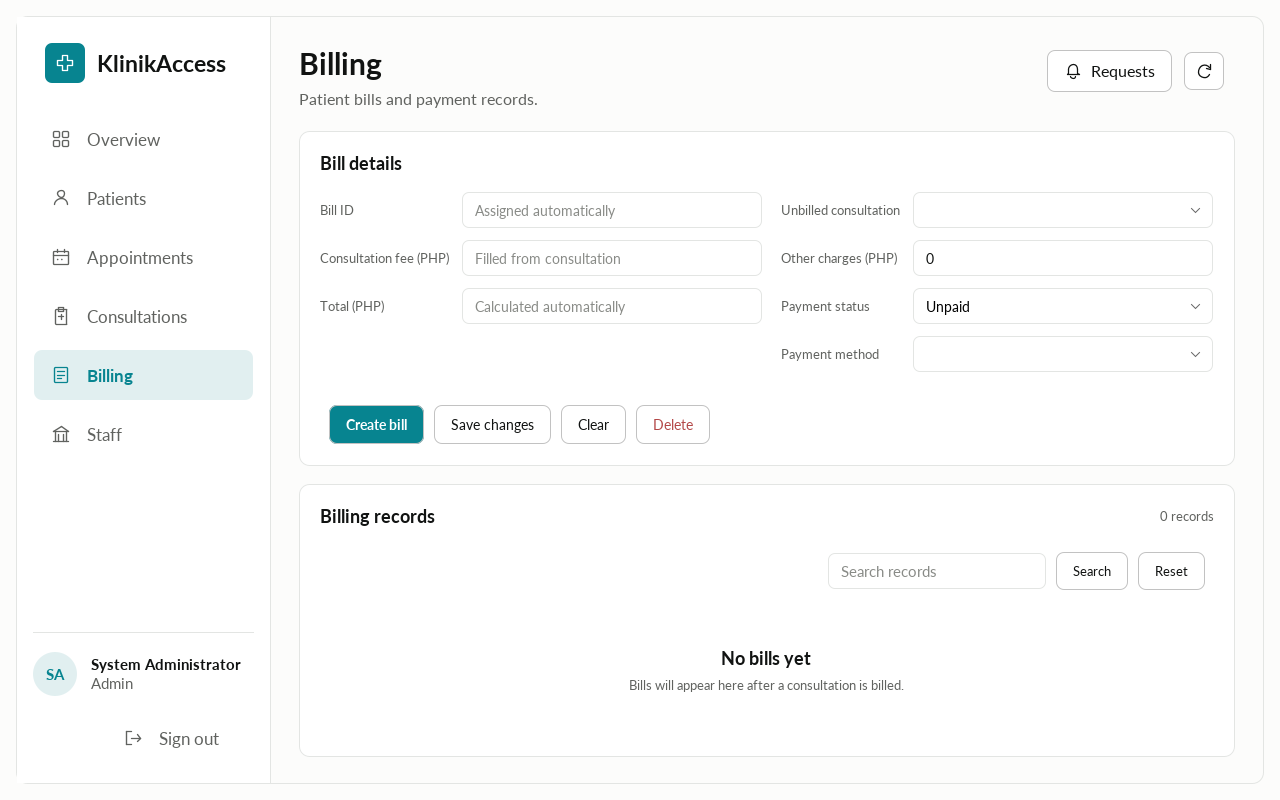
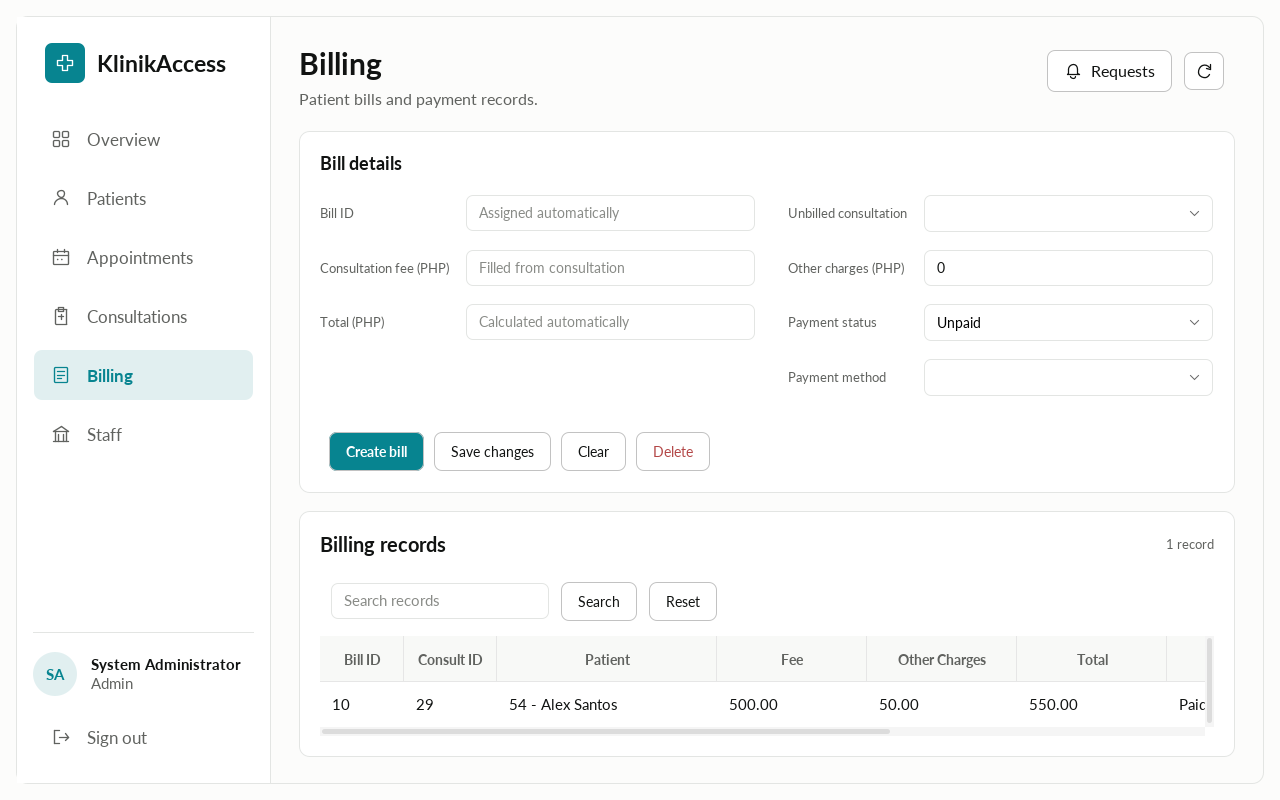
Improve form spacing, input guides, and scrollable clinic records
Align searches to the left, increase form gutters and record typography, and retain readable column widths with horizontal scrollbars across record tables. Show YYYY-MM-DD and HH-MM guides, accepting hyphenated or existing colon times. Validate optional patient contact numbers as ten digits starting with 9 without migrating existing data.

Add validation and scrollbar regression tests and refresh screenshots with disposable demonstration records. Validation: all 31 tests passed; input and horizontal-scroll checks passed at 125%, 150%, and 200% UI scaling.

diff --git a/src/main/java/gui/Theme.java b/src/main/java/gui/Theme.java
@@ -82,12 +82,20 @@ public final class Theme {
     public static void polish(Container root){
         for(Component c:root.getComponents()){
             if(c instanceof JTable){
-                JTable t=(JTable)c;t.setRowHeight(42);t.setShowVerticalLines(false);t.setShowHorizontalLines(true);
+                JTable t=(JTable)c;t.setFont(font(15,false));t.setRowHeight(Math.max(46,t.getFontMetrics(t.getFont()).getHeight()+16));t.setShowVerticalLines(false);t.setShowHorizontalLines(true);
+                t.setAutoResizeMode(JTable.AUTO_RESIZE_OFF);
                 t.setIntercellSpacing(new Dimension(0,1));t.setFillsViewportHeight(true);t.setBackground(WHITE);
-                t.getTableHeader().setFont(font(13,true));t.getTableHeader().setPreferredSize(new Dimension(0,40));t.getTableHeader().setReorderingAllowed(false);
+                t.getTableHeader().setFont(font(14,true));t.getTableHeader().setPreferredSize(new Dimension(0,46));t.getTableHeader().setReorderingAllowed(false);
+                for(int i=0;i<t.getColumnModel().getColumnCount();i++){
+                    javax.swing.table.TableColumn column=t.getColumnModel().getColumn(i);
+                    String title=String.valueOf(column.getHeaderValue());
+                    int minimum=t.getTableHeader().getFontMetrics(t.getTableHeader().getFont()).stringWidth(title)+28;
+                    int width=Math.max(recordColumnWidth(title),minimum);
+                    column.setMinWidth(Math.max(64,minimum));column.setPreferredWidth(width);column.setWidth(width);
+                }
                 t.setDefaultRenderer(Object.class,new DefaultTableCellRenderer(){
                     @Override public Component getTableCellRendererComponent(JTable table,Object value,boolean selected,boolean focus,int row,int col){
-                        super.getTableCellRendererComponent(table,value,selected,focus,row,col);setBorder(new EmptyBorder(0,12,0,12));setFont(font(13,false));
+                        super.getTableCellRendererComponent(table,value,selected,focus,row,col);setBorder(new EmptyBorder(7,12,7,12));setFont(font(15,selected));
                         String text=value==null?"":value.toString();
                         setToolTipText(text.isEmpty()?null:"<html><div style='width: 420px'>"+text.replace("&","&amp;").replace("<","&lt;").replace(">","&gt;").replace("\n","<br>")+"</div></html>");return this;
                     }
@@ -95,7 +103,7 @@ public final class Theme {
             }
             if(c instanceof JScrollPane){
                 JScrollPane s=(JScrollPane)c;s.getViewport().setBackground(WHITE);
-                if(s.getViewport().getView() instanceof JTable)s.setBorder(BorderFactory.createEmptyBorder());
+                if(s.getViewport().getView() instanceof JTable){s.setBorder(BorderFactory.createEmptyBorder());s.setHorizontalScrollBarPolicy(ScrollPaneConstants.HORIZONTAL_SCROLLBAR_ALWAYS);}
                 else if(s.getViewport().getView() instanceof javax.swing.text.JTextComponent){
                     s.setBorder(new CompoundBorder(new RoundedBorder(LINE,12),new EmptyBorder(6,8,6,8)));
                     s.getViewport().getView().setFont(font(14,false));
@@ -107,6 +115,18 @@ public final class Theme {
             }
             if(c instanceof Container)polish((Container)c);
         }
+    }
+    private static int recordColumnWidth(String title){
+        String name=title.toLowerCase(java.util.Locale.ROOT).replaceAll("[^a-z]","");
+        if(name.equals("id")||name.endsWith("id")||name.equals("request"))return 84;
+        if(name.equals("bookedon")||name.equals("registered")||name.equals("recorded")||name.equals("billedon")||name.equals("requestedon"))return 220;
+        if(name.equals("patient")||name.equals("doctor")||name.equals("fullname")||name.equals("linkeddoctor"))return 220;
+        if(name.equals("address")||name.equals("email")||name.equals("diagnosis")||name.equals("treatmentnotes")||name.equals("prescription")||name.equals("reason"))return 260;
+        if(name.equals("date")||name.equals("birthdate"))return 140;
+        if(name.equals("time"))return 120;
+        if(name.equals("sex"))return 100;
+        if(name.equals("contact")||name.equals("username"))return 170;
+        return 150;
     }
     private static class RoundedPanel extends JPanel {
         private final int radius;

diff --git a/src/main/java/gui/GuiUtil.java b/src/main/java/gui/GuiUtil.java
@@ -12,8 +12,8 @@ import javax.swing.text.JTextComponent;
 public class GuiUtil {
 
     public static final String FORMAT_MSG =
-            "Please check your input:\n- Date format: yyyy-MM-dd (e.g. 2026-10-20)\n"
-          + "- Time format: HH:mm (e.g. 14:30)\n- Amounts must be numbers (e.g. 500.00)";
+            "Please check your input:\n- Date format: YYYY-MM-DD (e.g. 2026-10-20)\n"
+          + "- Time format: HH-MM (e.g. 14-30, using 24-hour time)\n- Amounts must be numbers (e.g. 500.00)";
 
     /** Combo box entry: an id plus a display label (and an optional extra value). */
     public static class Item {
@@ -55,14 +55,15 @@ public class GuiUtil {
     /** Adds "label : field" to a GridBagLayout panel; col 0 or 1 gives a two-column form. */
     public static void addRow(JPanel p, int row, int col, String label, JComponent field) {
         GridBagConstraints g = new GridBagConstraints();
-        g.insets = new Insets(5, 0, 5, 12);
+        g.insets = new Insets(8, 0, 8, 16);
         g.anchor = GridBagConstraints.WEST;
         g.gridx = col * 2;
         g.gridy = row;
         JLabel caption=Theme.label(label.replaceAll(":$", ""),13,Theme.MUTED,false);
+        caption.setLabelFor(field);caption.setMinimumSize(caption.getPreferredSize());
         p.add(caption, g);
         g.gridx = col * 2 + 1;
-        g.insets = new Insets(5, 0, 5, col == 0 ? 18 : 0);
+        g.insets = new Insets(8, 0, 8, col == 0 ? 32 : 0);
         g.fill = GridBagConstraints.HORIZONTAL;
         g.weightx = 1;
         field.setFont(Theme.font(14,false));
@@ -90,11 +91,11 @@ public class GuiUtil {
     }
 
     public static JPanel searchBar(JTextField txt, JButton... buttons) {
-        JPanel p=new JPanel(new FlowLayout(FlowLayout.RIGHT,8,0));p.setOpaque(false);
+        JPanel p=new JPanel(new FlowLayout(FlowLayout.LEFT,10,0));p.setOpaque(false);
         txt.putClientProperty("JTextField.placeholderText","Search records");
         int height=Theme.controlHeight(txt,38);txt.setPreferredSize(new Dimension(210,height));txt.setMinimumSize(new Dimension(80,height));
         txt.setColumns(16);if(buttons.length>0)txt.addActionListener(e->buttons[0].doClick());p.add(txt);
-        for(JButton button:buttons){button.setFont(Theme.font(13,false));p.add(button);}return p;
+        for(JButton button:buttons){button.setFont(Theme.font(14,false));p.add(button);}return p;
     }
 
     public static void onChange(JTextComponent f, Runnable r) {
@@ -110,7 +111,9 @@ public class GuiUtil {
 
     public static java.sql.Time time(String s) {
         try {
-            java.time.LocalTime t = java.time.LocalTime.parse(s.trim(), java.time.format.DateTimeFormatter.ofPattern("HH:mm").withResolverStyle(java.time.format.ResolverStyle.STRICT));
+            // HH-MM is the visible guide; Java's minute token is lowercase mm.
+            // Retain colon input for records and workflows created before the guide changed.
+            java.time.LocalTime t = java.time.LocalTime.parse(s.trim().replace('-', ':'), java.time.format.DateTimeFormatter.ofPattern("HH:mm").withResolverStyle(java.time.format.ResolverStyle.STRICT));
             return java.sql.Time.valueOf(t);
         } catch(java.time.DateTimeException e) { throw new IllegalArgumentException("Invalid time",e); }
     }

diff --git a/src/test/java/clinic/RecordTableLayoutTest.java b/src/test/java/clinic/RecordTableLayoutTest.java
@@ -1,0 +1,52 @@
+package clinic;
+
+import gui.GuiUtil;
+import gui.Theme;
+import java.awt.*;
+import java.util.concurrent.Callable;
+import java.util.concurrent.ExecutionException;
+import java.util.concurrent.FutureTask;
+import javax.swing.*;
+import javax.swing.table.DefaultTableModel;
+import org.junit.jupiter.api.Test;
+import static org.junit.jupiter.api.Assertions.*;
+
+class RecordTableLayoutTest {
+    @Test void bookedOnCanBeScrolledFullyIntoView() throws Exception {
+        onEdt(()->{
+            Theme.install();
+            DefaultTableModel model=GuiUtil.tableModel("ID","Patient","Doctor","Date","Time","Status","Reason","Booked On");
+            model.addRow(new Object[]{1,"Alex Santos","Dr. Reyes","2026-10-27","09:30:00","Scheduled","Checkup","2026-10-27 01:23:27"});
+            JTable table=new JTable(model);JScrollPane scroll=new JScrollPane(table);scroll.setColumnHeaderView(table.getTableHeader());
+            JPanel panel=new JPanel(new BorderLayout());panel.add(scroll);Theme.polish(panel);
+            panel.setSize(650,220);panel.doLayout();scroll.doLayout();scroll.getViewport().doLayout();table.doLayout();
+            assertEquals(JTable.AUTO_RESIZE_OFF,table.getAutoResizeMode());
+            assertTrue(scroll.getHorizontalScrollBar().isVisible());
+            assertTrue(table.getPreferredSize().width>scroll.getViewport().getExtentSize().width);
+            scroll.getHorizontalScrollBar().setValue(scroll.getHorizontalScrollBar().getMaximum());
+            Rectangle cell=table.getCellRect(0,7,true);
+            assertTrue(scroll.getViewport().getViewRect().contains(cell),"The complete Booked On cell must be reachable");
+            JLabel rendered=(JLabel)table.prepareRenderer(table.getCellRenderer(0,7),0,7);
+            Insets insets=rendered.getInsets();
+            assertTrue(cell.width>=rendered.getFontMetrics(rendered.getFont()).stringWidth(rendered.getText())+insets.left+insets.right);
+            assertTrue(table.getRowHeight()>=rendered.getFontMetrics(rendered.getFont()).getHeight()+insets.top+insets.bottom);
+            return null;
+        });
+    }
+    @Test void searchControlsBeginOnTheLeft() throws Exception {
+        onEdt(()->{
+            Theme.install();JTextField field=new JTextField();JButton search=new JButton("Search"),reset=new JButton("Reset");
+            JPanel panel=GuiUtil.searchBar(field,search,reset);panel.setSize(900,70);panel.doLayout();
+            assertTrue(field.getX()<30,"Search input should use the available left side");
+            assertTrue(field.getBounds().getMaxX()<search.getX());assertTrue(search.getBounds().getMaxX()<reset.getX());
+            return null;
+        });
+    }
+    private <T> T onEdt(Callable<T> action) throws Exception {
+        FutureTask<T> task=new FutureTask<>(action);SwingUtilities.invokeAndWait(task);
+        try{return task.get();}catch(ExecutionException e){
+            if(e.getCause() instanceof Error)throw (Error)e.getCause();
+            if(e.getCause() instanceof Exception)throw (Exception)e.getCause();throw e;
+        }
+    }
+}

diff --git a/src/main/java/gui/PatientPanel.java b/src/main/java/gui/PatientPanel.java
@@ -1,6 +1,7 @@
 package gui;
 
 import dao.PatientDAO;
+import validation.PatientInputs;
 import java.awt.*;
 import security.*;
 import java.sql.SQLException;
@@ -28,8 +29,10 @@ public class PatientPanel extends JPanel implements GuiUtil.Refreshable {
         setOpaque(false);
         txtId.setEditable(false);
         txtId.putClientProperty("JTextField.placeholderText", "Assigned automatically");
-        txtBirth.putClientProperty("JTextField.placeholderText", "yyyy-MM-dd");
-        txtContact.putClientProperty("JTextField.placeholderText", "Contact number");
+        txtBirth.putClientProperty("JTextField.placeholderText", "YYYY-MM-DD");
+        txtBirth.setToolTipText("Birth date: YYYY-MM-DD, for example 2000-05-12");
+        txtContact.putClientProperty("JTextField.placeholderText", "9123456789");
+        txtContact.setToolTipText("10 digits starting with 9, for example 9123456789");
         txtEmail.putClientProperty("JTextField.placeholderText", "name@example.com");
 
         JPanel form = new JPanel(new GridBagLayout());
@@ -60,7 +63,7 @@ public class PatientPanel extends JPanel implements GuiUtil.Refreshable {
         JPanel recordsCard = Theme.card(new BorderLayout(0, 14));
         JPanel recordsHeader = new JPanel(new BorderLayout(0, 12));recordsHeader.setOpaque(false);
         JPanel recordTitle = new JPanel(new BorderLayout());recordTitle.setOpaque(false);
-        recordTitle.add(Theme.label("Patient records", 18, Theme.INK, true), BorderLayout.WEST);
+        recordTitle.add(Theme.label("Patient records", 20, Theme.INK, true), BorderLayout.WEST);
         recordTitle.add(recordsCount, BorderLayout.EAST);
         recordsHeader.add(recordTitle, BorderLayout.NORTH);
         recordsHeader.add(GuiUtil.searchBar(txtSearch, btnSearch, btnAll), BorderLayout.SOUTH);
@@ -112,6 +115,8 @@ public class PatientPanel extends JPanel implements GuiUtil.Refreshable {
             GuiUtil.error(this, "First name, last name and birth date are required.");
             return false;
         }
+        try { PatientInputs.contact(txtContact.getText()); }
+        catch (IllegalArgumentException ex) { GuiUtil.error(this, ex.getMessage()); return false; }
         return true;
     }
 

diff --git a/src/main/java/gui/AppointmentPanel.java b/src/main/java/gui/AppointmentPanel.java
@@ -34,8 +34,10 @@ public class AppointmentPanel extends JPanel implements GuiUtil.Refreshable {
         setOpaque(false);
         txtId.setEditable(false);
         txtId.putClientProperty("JTextField.placeholderText", "Assigned automatically");
-        txtDate.putClientProperty("JTextField.placeholderText", "yyyy-MM-dd");
-        txtTime.putClientProperty("JTextField.placeholderText", "HH:mm");
+        txtDate.putClientProperty("JTextField.placeholderText", "YYYY-MM-DD");
+        txtTime.putClientProperty("JTextField.placeholderText", "HH-MM");
+        txtDate.setToolTipText("Appointment date: YYYY-MM-DD");
+        txtTime.setToolTipText("24-hour time: HH-MM, for example 14-30");
         txtReason.putClientProperty("JTextField.placeholderText", "Reason for visit");
 
         JPanel form = new JPanel(new GridBagLayout());
@@ -65,7 +67,7 @@ public class AppointmentPanel extends JPanel implements GuiUtil.Refreshable {
         JPanel recordsCard = Theme.card(new BorderLayout(0, 14));
         JPanel recordsHeader = new JPanel(new BorderLayout(0, 12));recordsHeader.setOpaque(false);
         JPanel recordTitle = new JPanel(new BorderLayout());recordTitle.setOpaque(false);
-        recordTitle.add(Theme.label("Appointments", 18, Theme.INK, true), BorderLayout.WEST);
+        recordTitle.add(Theme.label("Appointments", 20, Theme.INK, true), BorderLayout.WEST);
         recordTitle.add(recordsCount, BorderLayout.EAST);
         recordsHeader.add(recordTitle, BorderLayout.NORTH);
         recordsHeader.add(GuiUtil.searchBar(txtSearch, btnSearch, btnAll), BorderLayout.SOUTH);
@@ -186,7 +188,7 @@ public class AppointmentPanel extends JPanel implements GuiUtil.Refreshable {
         GuiUtil.select(cmbDoctor, GuiUtil.str(model.getValueAt(r, 2)));
         txtDate.setText(GuiUtil.str(model.getValueAt(r, 3)));
         String t = GuiUtil.str(model.getValueAt(r, 4));
-        txtTime.setText(t.length() >= 5 ? t.substring(0, 5) : t);
+        txtTime.setText((t.length() >= 5 ? t.substring(0, 5) : t).replace(':', '-'));
         cmbStatus.setSelectedItem(GuiUtil.str(model.getValueAt(r, 5)));
         txtReason.setText(GuiUtil.str(model.getValueAt(r, 6)));
     }

diff --git a/src/main/java/dao/PatientDAO.java b/src/main/java/dao/PatientDAO.java
@@ -2,6 +2,7 @@ package dao;
 
 import database.DBConnection;
 import security.*;
+import validation.PatientInputs;
 import java.sql.*;
 import java.util.List;
 
@@ -10,10 +11,11 @@ public class PatientDAO {
     public void insert(String first, String last, Date birth, String sex,
                        String contact, String address, String email) throws SQLException {
         Session.require(Session.current().role.registersPatients());
+        String phone = PatientInputs.contact(contact);
         String sql = "INSERT INTO patients (first_name,last_name,birth_date,sex,contact_number,address,email) "
                    + "VALUES (?,?,?,?,?,?,?)";
         try (Connection c = DBConnection.getConnection(); PreparedStatement ps = c.prepareStatement(sql)) {
-            bind(ps, first, last, birth, sex, contact, address, email);
+            bind(ps, first, last, birth, sex, phone, address, email);
             ps.executeUpdate();
         }
     }
@@ -21,10 +23,11 @@ public class PatientDAO {
     public void update(int id, String first, String last, Date birth, String sex,
                        String contact, String address, String email) throws SQLException {
         Session.require(Session.current().role.registersPatients());
+        String phone = PatientInputs.contact(contact);
         String sql = "UPDATE patients SET first_name=?, last_name=?, birth_date=?, sex=?, "
                    + "contact_number=?, address=?, email=? WHERE patient_id=?";
         try (Connection c = DBConnection.getConnection(); PreparedStatement ps = c.prepareStatement(sql)) {
-            bind(ps, first, last, birth, sex, contact, address, email);
+            bind(ps, first, last, birth, sex, phone, address, email);
             ps.setInt(8, id);
             ps.executeUpdate();
         }

diff --git a/src/test/java/clinic/PatientInputsTest.java b/src/test/java/clinic/PatientInputsTest.java
@@ -1,0 +1,45 @@
+package clinic;
+
+import org.junit.jupiter.api.Test;
+import validation.PatientInputs;
+import static org.junit.jupiter.api.Assertions.*;
+
+class PatientInputsTest {
+    @Test void acceptsTenDigitsStartingWithNine() {
+        assertEquals("9123456789", PatientInputs.contact("9123456789"));
+        assertEquals("9999999999", PatientInputs.contact("9999999999"));
+        assertEquals("9123456789", PatientInputs.contact("  9123456789  "));
+    }
+
+    @Test void keepsTheOptionalFieldBlank() {
+        assertEquals("", PatientInputs.contact(""));
+        assertEquals("", PatientInputs.contact("   "));
+        assertEquals("", PatientInputs.contact(null));
+    }
+
+    @Test void rejectsOtherStartingDigits() {
+        assertInvalid("0123456789");
+        assertInvalid("8123456789");
+        assertInvalid("1123456789");
+    }
+
+    @Test void rejectsNumbersWithTheWrongLength() {
+        assertInvalid("912345678");
+        assertInvalid("91234567890");
+        assertInvalid("09123456789");
+    }
+
+    @Test void rejectsLettersSeparatorsAndCountryPrefixes() {
+        assertInvalid("912345678a");
+        assertInvalid("912 3456789");
+        assertInvalid("912-3456789");
+        assertInvalid("+639123456789");
+        assertInvalid("9１２３４５６７８９");
+    }
+
+    private void assertInvalid(String number) {
+        IllegalArgumentException error = assertThrows(IllegalArgumentException.class,
+                () -> PatientInputs.contact(number), number);
+        assertEquals(PatientInputs.CONTACT_MESSAGE, error.getMessage());
+    }
+}

diff --git a/src/test/java/clinic/ClinicIntegrationTest.java b/src/test/java/clinic/ClinicIntegrationTest.java
@@ -46,6 +46,17 @@ class ClinicIntegrationTest {
         new AppointmentDAO().insert(patient,doctor,java.sql.Date.valueOf("2099-06-01"),Time.valueOf(time),"Scheduled","IT_visit");
         return number("SELECT appointment_id FROM appointments WHERE patient_id="+patient+" AND doctor_id="+doctor);
     }
+    @Test void patientContactFormatIsEnforcedForInsertAndUpdate()throws Exception {
+        Session.login(nurse);PatientDAO dao=new PatientDAO();
+        dao.insert("IT_contact","Test",java.sql.Date.valueOf("2000-01-01"),"Female","9123456789","","");
+        int id=((Number)dao.getAll("IT_contact").get(0)[0]).intValue();
+        assertEquals("9123456789",dao.getAll("IT_contact").get(0)[5]);
+        assertThrows(IllegalArgumentException.class,()->dao.insert("IT_badcontact","Test",java.sql.Date.valueOf("2000-01-01"),"Female","09123456789","",""));
+        assertThrows(IllegalArgumentException.class,()->dao.update(id,"IT_contact","Test",java.sql.Date.valueOf("2000-01-01"),"Female","8123456789","",""));
+        assertEquals("9123456789",dao.getAll("IT_contact").get(0)[5]);
+        dao.update(id,"IT_contact","Test",java.sql.Date.valueOf("2000-01-01"),"Female","9987654321","","");
+        assertEquals("9987654321",dao.getAll("IT_contact").get(0)[5]);
+    }
     @Test void roleSelectorMustMatchDatabaseRole()throws Exception{
         assertNull(accounts.authenticate("it_NURSE","testpass123".toCharArray(),Role.ADMIN));
         assertNull(accounts.authenticate("it_NURSE","wrong".toCharArray(),Role.NURSE));

diff --git a/src/test/java/clinic/AccessAndValidationTest.java b/src/test/java/clinic/AccessAndValidationTest.java
@@ -25,5 +25,14 @@ class AccessAndValidationTest {
         assertEquals("14:30:00",GuiUtil.time("14:30").toString());
         assertThrows(IllegalArgumentException.class,()->GuiUtil.time("24:01"));
     }
+    @Test void visibleDateAndTimeGuidesUseCalendarYearsAndMinutes() {
+        assertEquals("2021-01-01",GuiUtil.date("2021-01-01").toString());
+        assertEquals("14:30:00",GuiUtil.time("14-30").toString());
+        assertEquals("14:13:00",GuiUtil.time("14-13").toString());
+        assertEquals("00:00:00",GuiUtil.time("00-00").toString());
+        assertEquals("23:59:00",GuiUtil.time("23-59").toString());
+        assertThrows(IllegalArgumentException.class,()->GuiUtil.time("24-00"));
+        assertThrows(IllegalArgumentException.class,()->GuiUtil.time("14-60"));
+    }
     @Test void loggedOutSessionDenied() {Session.logout();assertThrows(SecurityException.class,Session::current);}
 }

diff --git a/src/main/java/gui/ConsultationPanel.java b/src/main/java/gui/ConsultationPanel.java
@@ -64,7 +64,7 @@ public class ConsultationPanel extends JPanel implements GuiUtil.Refreshable {
         JPanel recordsCard = Theme.card(new BorderLayout(0, 14));
         JPanel recordsHeader = new JPanel(new BorderLayout(0, 12));recordsHeader.setOpaque(false);
         JPanel recordTitle = new JPanel(new BorderLayout());recordTitle.setOpaque(false);
-        recordTitle.add(Theme.label("Consultation records", 18, Theme.INK, true), BorderLayout.WEST);
+        recordTitle.add(Theme.label("Consultation records", 20, Theme.INK, true), BorderLayout.WEST);
         recordTitle.add(recordsCount, BorderLayout.EAST);
         recordsHeader.add(recordTitle, BorderLayout.NORTH);
         recordsHeader.add(GuiUtil.searchBar(txtSearch, btnSearch, btnAll), BorderLayout.SOUTH);

diff --git a/src/main/java/gui/BillingPanel.java b/src/main/java/gui/BillingPanel.java
@@ -64,7 +64,7 @@ public class BillingPanel extends JPanel implements GuiUtil.Refreshable {
         JPanel recordsCard = Theme.card(new BorderLayout(0, 14));
         JPanel recordsHeader = new JPanel(new BorderLayout(0, 12));recordsHeader.setOpaque(false);
         JPanel recordTitle = new JPanel(new BorderLayout());recordTitle.setOpaque(false);
-        recordTitle.add(Theme.label("Billing records", 18, Theme.INK, true), BorderLayout.WEST);
+        recordTitle.add(Theme.label("Billing records", 20, Theme.INK, true), BorderLayout.WEST);
         recordTitle.add(recordsCount, BorderLayout.EAST);
         recordsHeader.add(recordTitle, BorderLayout.NORTH);
         recordsHeader.add(GuiUtil.searchBar(txtSearch, btnSearch, btnAll), BorderLayout.SOUTH);

diff --git a/src/main/java/validation/PatientInputs.java b/src/main/java/validation/PatientInputs.java
@@ -1,0 +1,18 @@
+package validation;
+
+/** Input rules shared by the patient form and its data-access layer. */
+public final class PatientInputs {
+    public static final String CONTACT_MESSAGE =
+            "Contact number must contain 10 digits and start with 9 (for example, 9123456789).";
+
+    private PatientInputs() { }
+
+    /** Keep the optional field blank, or return a trimmed number in the requested local format. */
+    public static String contact(String value) {
+        String number = value == null ? "" : value.trim();
+        if (!number.isEmpty() && !number.matches("9[0-9]{9}")) {
+            throw new IllegalArgumentException(CONTACT_MESSAGE);
+        }
+        return number;
+    }
+}
